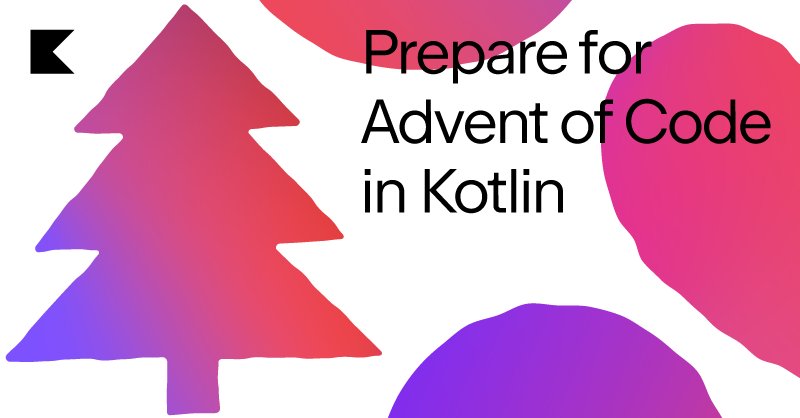
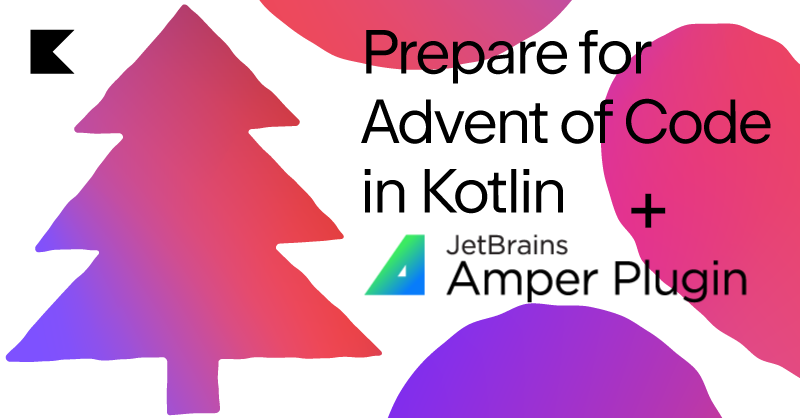
Introduce Amper

Changed region(s): [[0.5625, 0.5598, 0.9375, 0.7464], [0.4375, 0.5598, 0.5312, 0.7153], [0.7812, 0.4665, 0.8438, 0.5598]]

diff --git a/README.md b/README.md
@@ -7,6 +7,13 @@ We offer you a template prepared to use with [Kotlin][kotlin] language within th
 
 ![][file:cover]
 
+> [!IMPORTANT]
+>
+> This is a fork of the main [Advent of Code Kotlin Template][template] repository which utilizes the Amper tool for project configuration, recently [introduced by JetBrains][amper].
+> 
+> With this version, we swapped the standard Gradle build configuration with `module.yaml` Amper file.
+> For more deails, see [Amper project][amper-github]
+
 ## Workflow
 **Advent of Code Kotlin Template** is a particular type of GitHub repository that lets you speed up the setup phase and start writing your AoC solutions immediately.
 
@@ -39,7 +46,7 @@ After you create a new project based on the current template repository using th
 ```
 .
 ├── README.md               README file
-├── build.gradle.kts        Gradle configuration created with Kotlin DSL
+├── module.yaml             Amper configuration file
 ├── settings.gradle.kts     Gradle project settings
 ├── gradle*                 Gradle wraper files
 └── src
@@ -129,6 +136,9 @@ If you stuck with Kotlin-specific questions or anything related to this template
 
 [actions-user]: https://github.com/actions-user
 [aoc]: https://adventofcode.com
+[amper]: https://blog.jetbrains.com/blog/2023/11/09/amper-improving-the-build-tooling-user-experience/
+[amper-github]: https://github.com/JetBrains/amper
+[template]: https://github.com/kotlin-hands-on/advent-of-code-kotlin-template
 [docs]: https://kotlinlang.org/docs/home.html
 [issues]: https://github.com/kotlin-hands-on/advent-of-code-kotlin-template/issues
 [kiss]: https://en.wikipedia.org/wiki/KISS_principle
